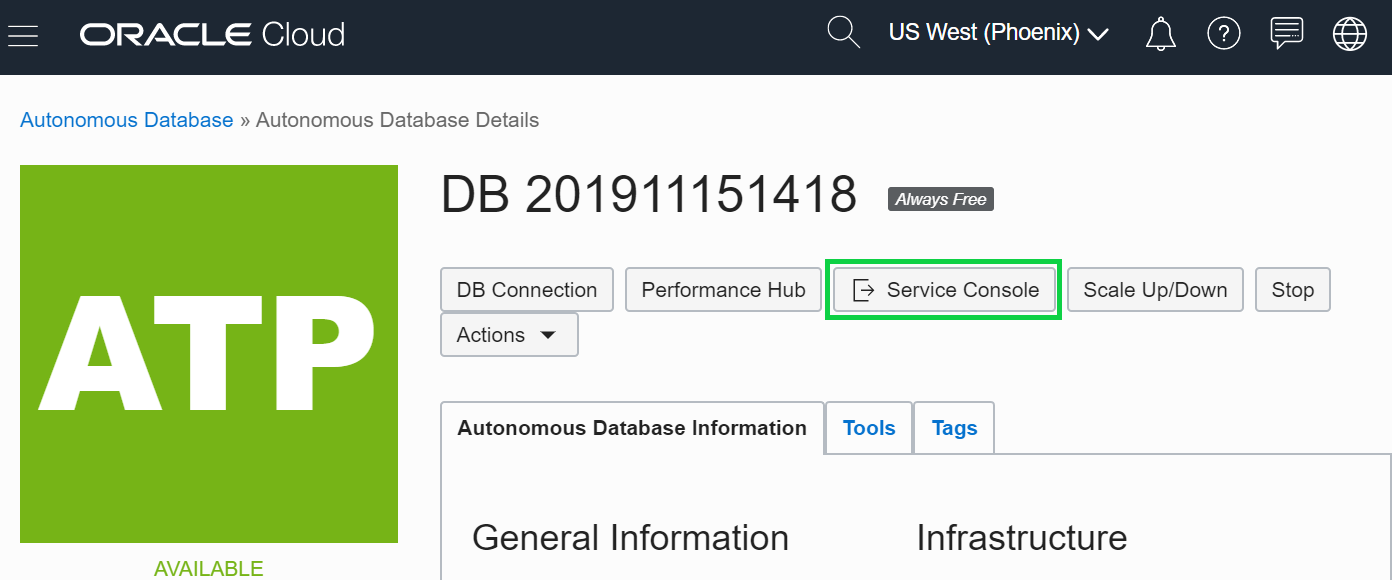
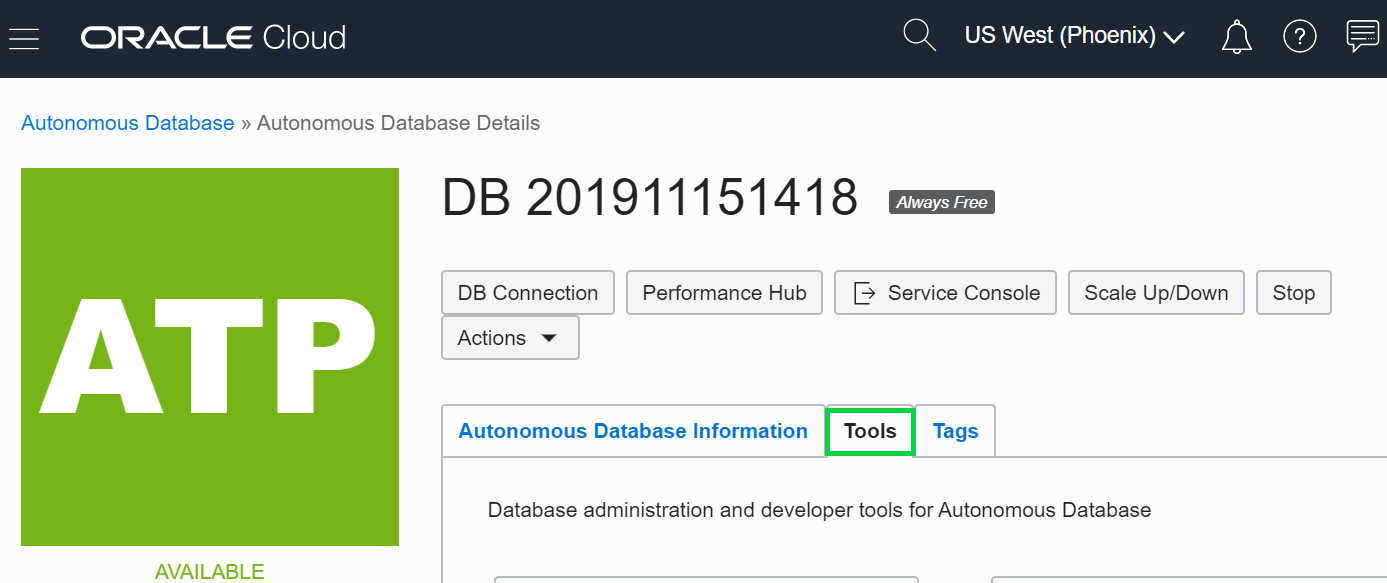
update

diff --git a/data-management-library/database-tools/apex/existing-tables/README.md b/data-management-library/database-tools/apex/existing-tables/README.md
@@ -77,11 +77,11 @@ In this part, you will create an instance of the Autonomous Transaction Processi
 
 When you first access APEX you will need to log in as an APEX instance administrator to create a workspace. A workspace is a logical domain where you define APEX applications. Each workspace is associated with one or more database schemas (database users) which are used to store the database objects, such as tables, views, packages, and more. These database objects are generally what APEX applications are built on top of.
 
-1. Click the **Service Console** button.
+1. Click the **Tools** button.
 
     ![](images/0/click-atp-service-console.png)
 
-2. Click the **Development** option in the menu on the left, then click **Oracle APEX**. 
+2. Click **Open APEX** to access Apex.
 
     ![](images/0/click-oracle-apex.png)
 
